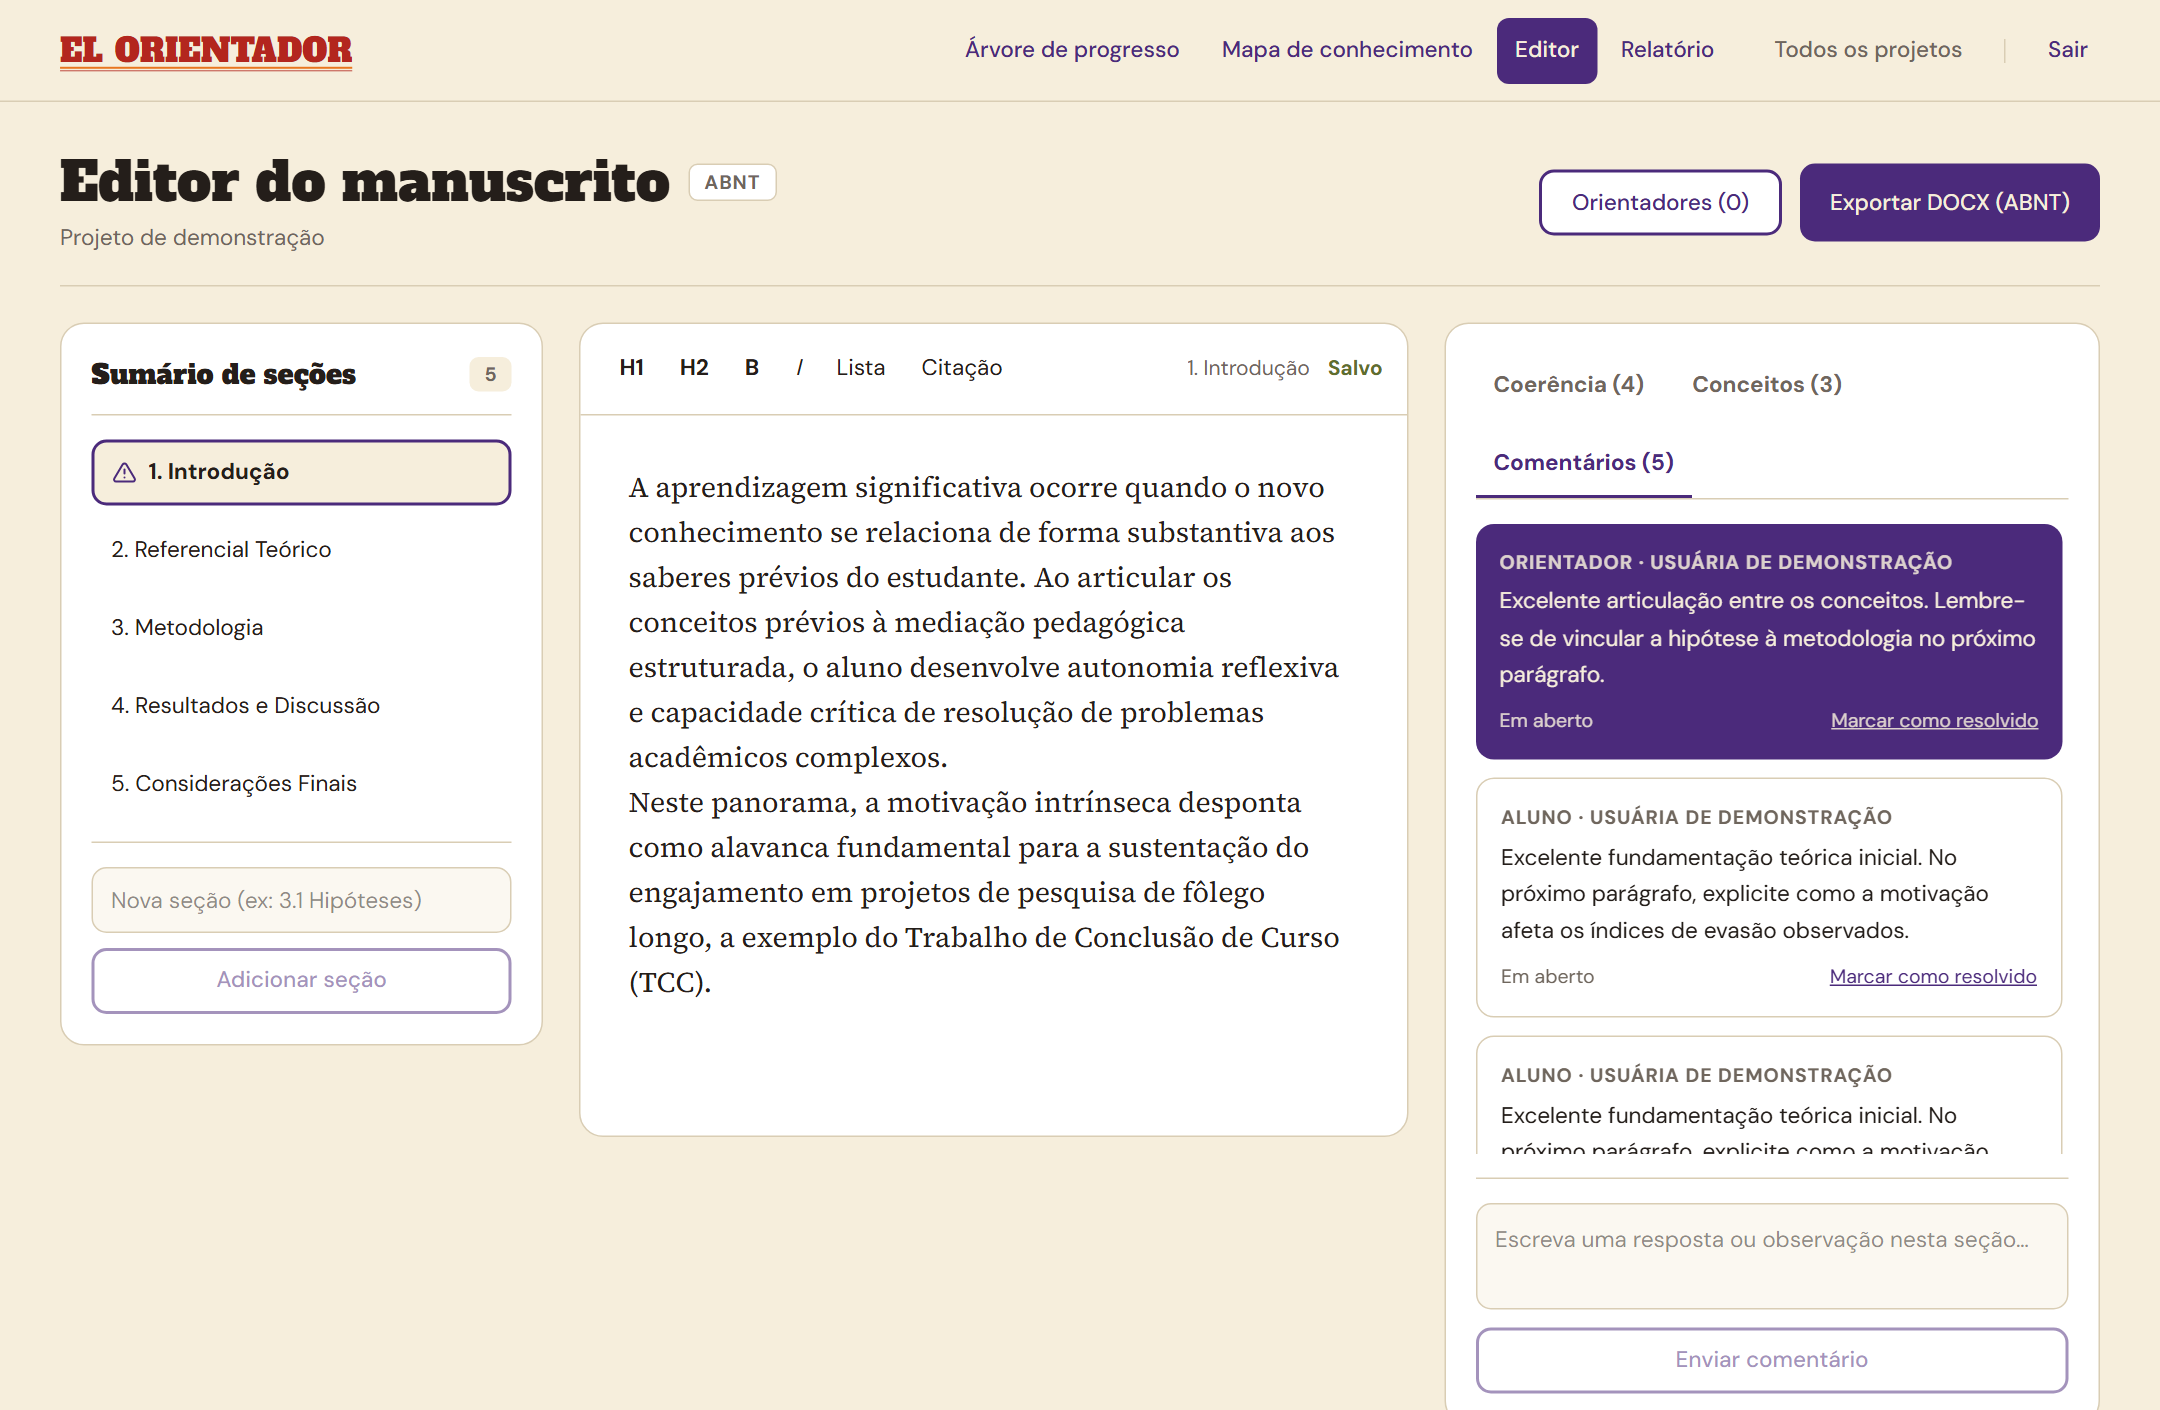
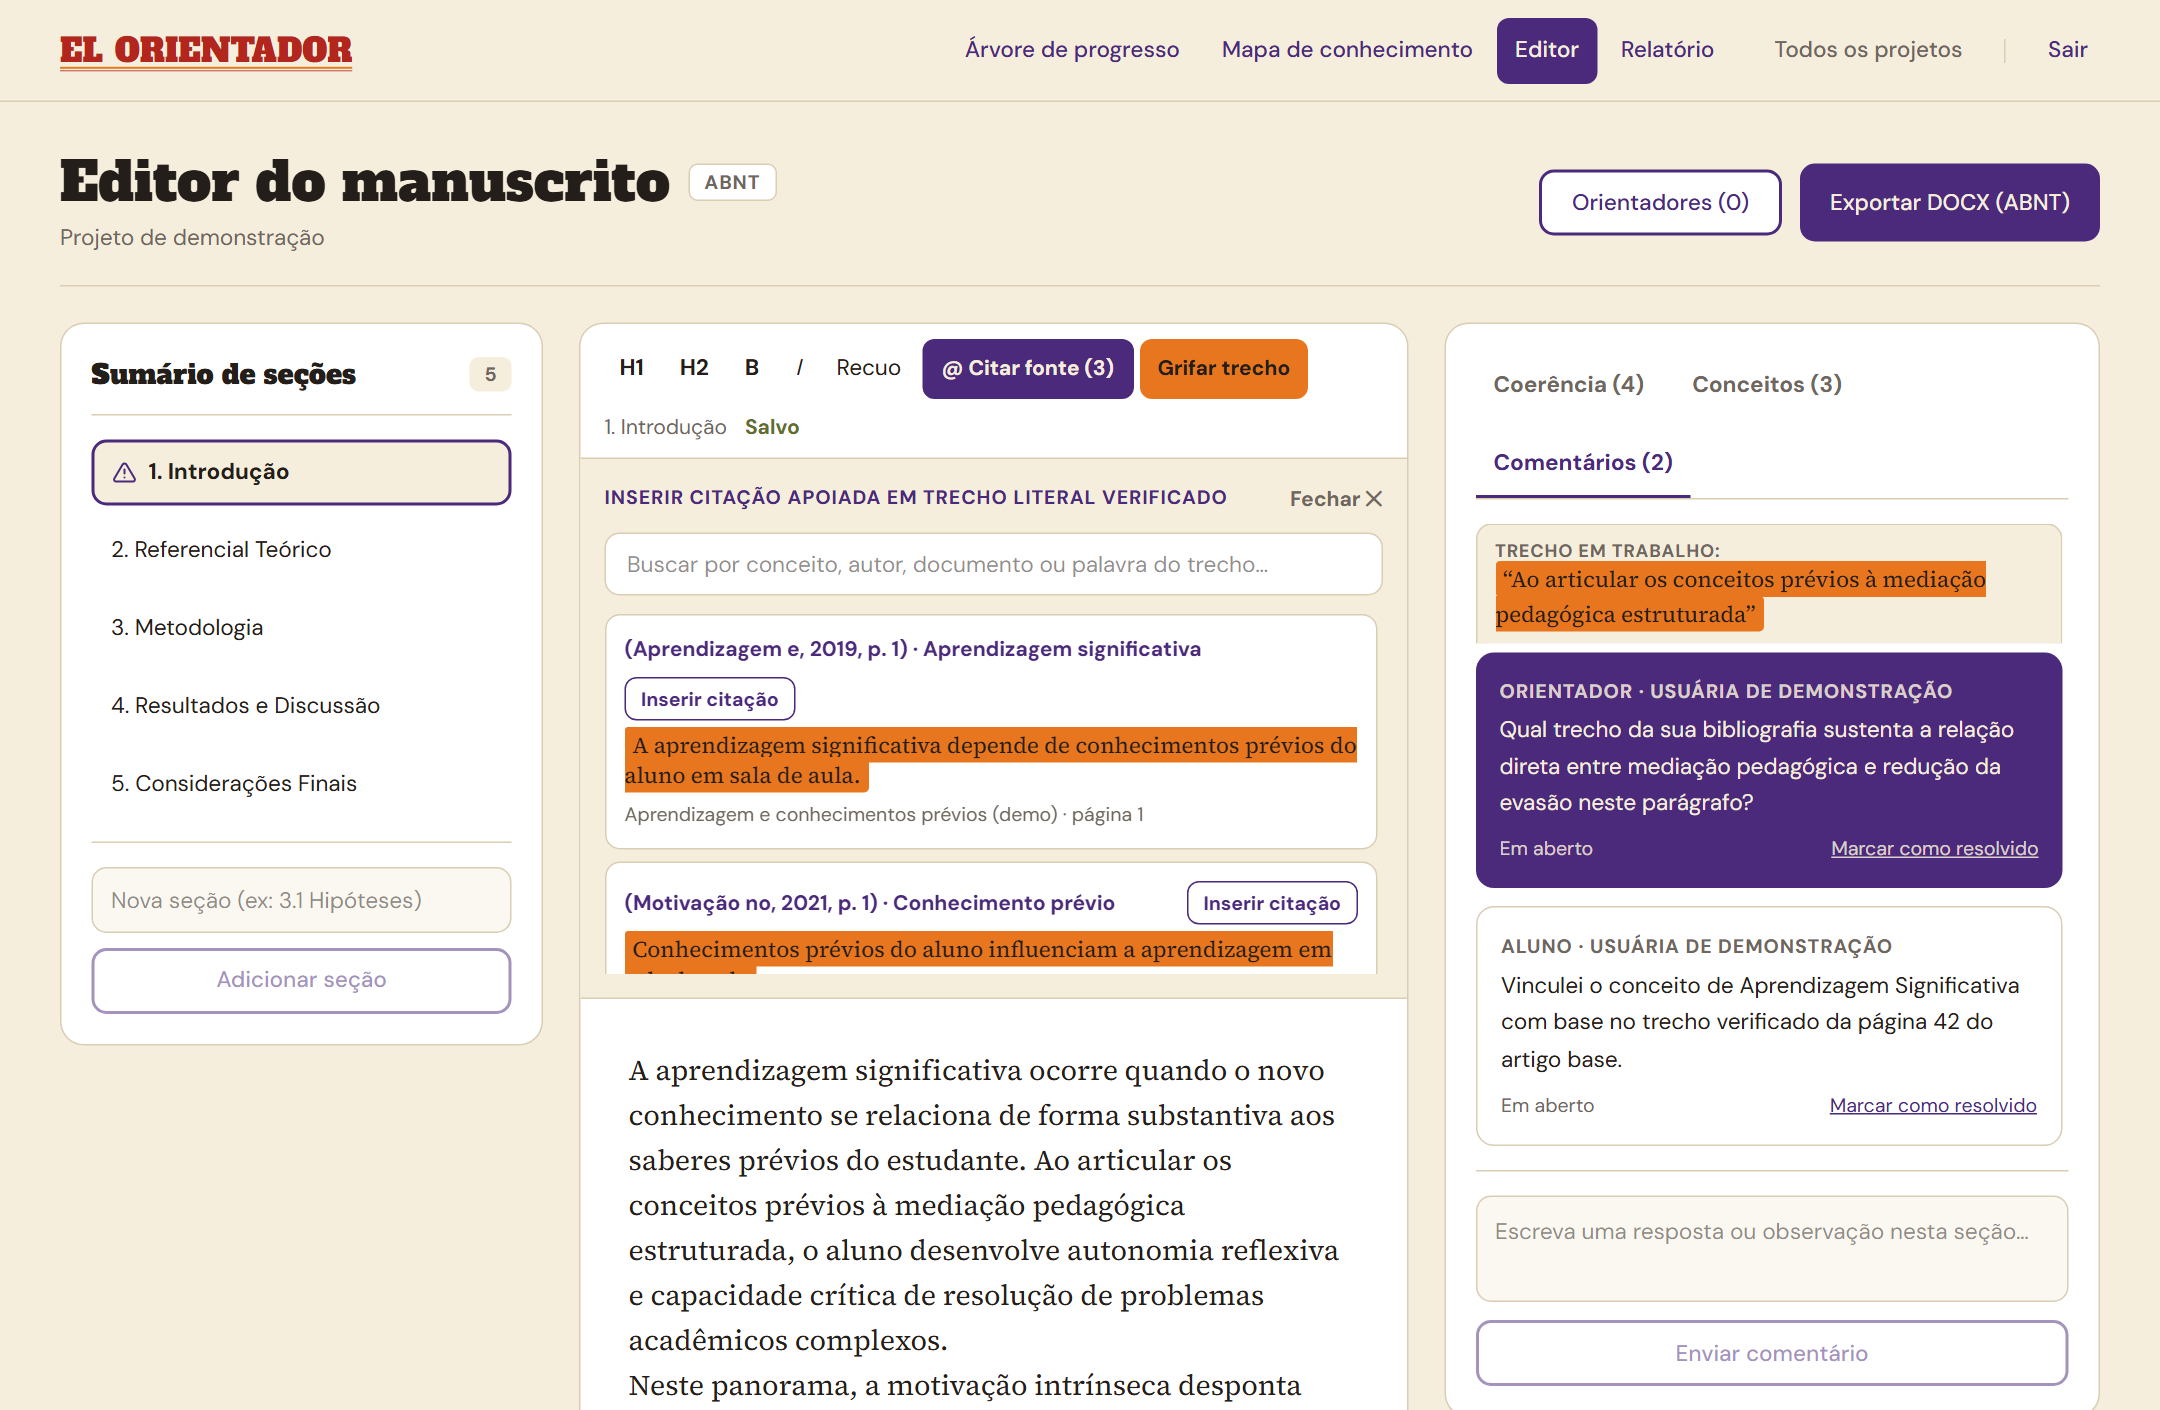
chore(screenshots): update screenshots for top-tier React Flow tree, Tiptap @citation, and advisor magic link

diff --git a/apps/web/src/app/orientador/[token]/advisor-share-view.tsx b/apps/web/src/app/orientador/[token]/advisor-share-view.tsx
@@ -389,12 +389,15 @@ export default function AdvisorShareView({ token }: { token: string }) {
                       Nenhuma pergunta registrada nesta seção ainda.
                     </p>
                   ) : (
-                    activeSection.comments.map((c) => {
+                    activeSection.comments.map((c, idx) => {
                       const parsed = parseAnchoredComment(c.content);
-                      const isStudent = c.author_email.includes("demo") || c.author_email.includes("estudante");
-                      const label = isStudent
-                        ? `Orientando · ${c.author_name || c.author_email}`
-                        : `Orientador · ${c.author_name || c.author_email}`;
+                      const isAdvisor =
+                        idx === 0 ||
+                        (!c.author_email.includes("demo") &&
+                          !c.author_email.includes("estudante"));
+                      const label = isAdvisor
+                        ? `Orientador · ${c.author_name || c.author_email}`
+                        : `Orientando · ${c.author_name || c.author_email}`;
 
                       return (
                         <div key={c.id} className="space-y-1">
@@ -408,14 +411,14 @@ export default function AdvisorShareView({ token }: { token: string }) {
                               </mark>
                             </div>
                           )}
-                          {isStudent ? (
-                            <StudentCard label={label}>
-                              <p className="whitespace-pre-wrap">{parsed.body}</p>
-                            </StudentCard>
-                          ) : (
+                          {isAdvisor ? (
                             <AdvisorBubble label={label}>
                               <p className="whitespace-pre-wrap">{parsed.body}</p>
                             </AdvisorBubble>
+                          ) : (
+                            <StudentCard label={label}>
+                              <p className="whitespace-pre-wrap">{parsed.body}</p>
+                            </StudentCard>
                           )}
                         </div>
                       );

diff --git a/scripts/capture_all_screens.py b/scripts/capture_all_screens.py
@@ -95,7 +95,7 @@ def setup_demo_data() -> tuple[str, str]:
                 client.post(
                     f"/projects/{pid}/sections/{sec0['id']}/comments",
                     json={
-                        "content": "Qual trecho da sua bibliografia sustenta a relação direta entre mediação pedagógica e redução da evasão neste parágrafo?"
+                        "content": '[Trecho em revisão: "Ao articular os conceitos prévios à mediação pedagógica estruturada"]\nQual trecho da sua bibliografia sustenta a relação direta entre mediação pedagógica e redução da evasão neste parágrafo?'
                     },
                     headers=headers,
                 )
@@ -225,14 +225,18 @@ def capture_all():
             time.sleep(1.2)
             save_shot(page, "08_painel_evidencia.png")
 
-        # 9. Editor Acadêmico (/projetos/[id]/editor) - Aba Coerência
+        # 9. Editor Acadêmico (/projetos/[id]/editor) - Aba Coerência + @Citar fonte
         print("9. Capturando 09_manuscrito_editor.png...")
         page.goto(f"{BASE_URL}/projetos/{pid}/editor", wait_until="networkidle")
         page.wait_for_selector(".tiptap, [contenteditable='true']", timeout=15000)
-        time.sleep(1.5)
+        time.sleep(1.2)
+        cite_btn = page.query_selector("button:has-text('@ Citar fonte')")
+        if cite_btn:
+            cite_btn.click()
+            time.sleep(0.6)
         save_shot(page, "09_manuscrito_editor.png")
 
-        # 10. Editor com Aba de Comentários do Orientador
+        # 10. Editor com Aba de Comentários do Orientador (com trecho grifado em laranja)
         print("10. Capturando 10_editor_comentarios.png...")
         comments_tab = page.query_selector("button:has-text('Comentários')")
         if comments_tab:
@@ -244,11 +248,26 @@ def capture_all():
         print("11. Capturando 11_relatorio_orientador.png...")
         page.goto(f"{BASE_URL}/projetos/{pid}/relatorio", wait_until="networkidle")
         page.wait_for_selector("text=Relatório de progresso para orientação", timeout=15000)
-        time.sleep(1.5)
+        time.sleep(1.2)
+        share_btn = page.query_selector("button:has-text('Compartilhar link com orientador')")
+        if share_btn:
+            share_btn.click()
+            time.sleep(0.8)
         save_shot(page, "11_relatorio_orientador.png", full_page=True)
 
+        # 12. Modo Orientador Humano via Link Mágico (/orientador/[token])
+        print("12. Capturando 12_modo_orientador_link.png...")
+        share_link_el = page.query_selector("a:has-text('Abrir visão do orientador')")
+        if share_link_el:
+            href = share_link_el.get_attribute("href")
+            if href:
+                page.goto(f"{BASE_URL}{href}", wait_until="networkidle")
+                page.wait_for_selector("text=Revisão do Orientador Humano", timeout=15000)
+                time.sleep(1.2)
+                save_shot(page, "12_modo_orientador_link.png", full_page=True)
+
         browser.close()
-        print("\nTodas as 11 capturas foram geradas com sucesso em:", OUTPUT_DIR)
+        print("\nTodas as capturas foram geradas com sucesso em:", OUTPUT_DIR)
 
 
 if __name__ == "__main__":
